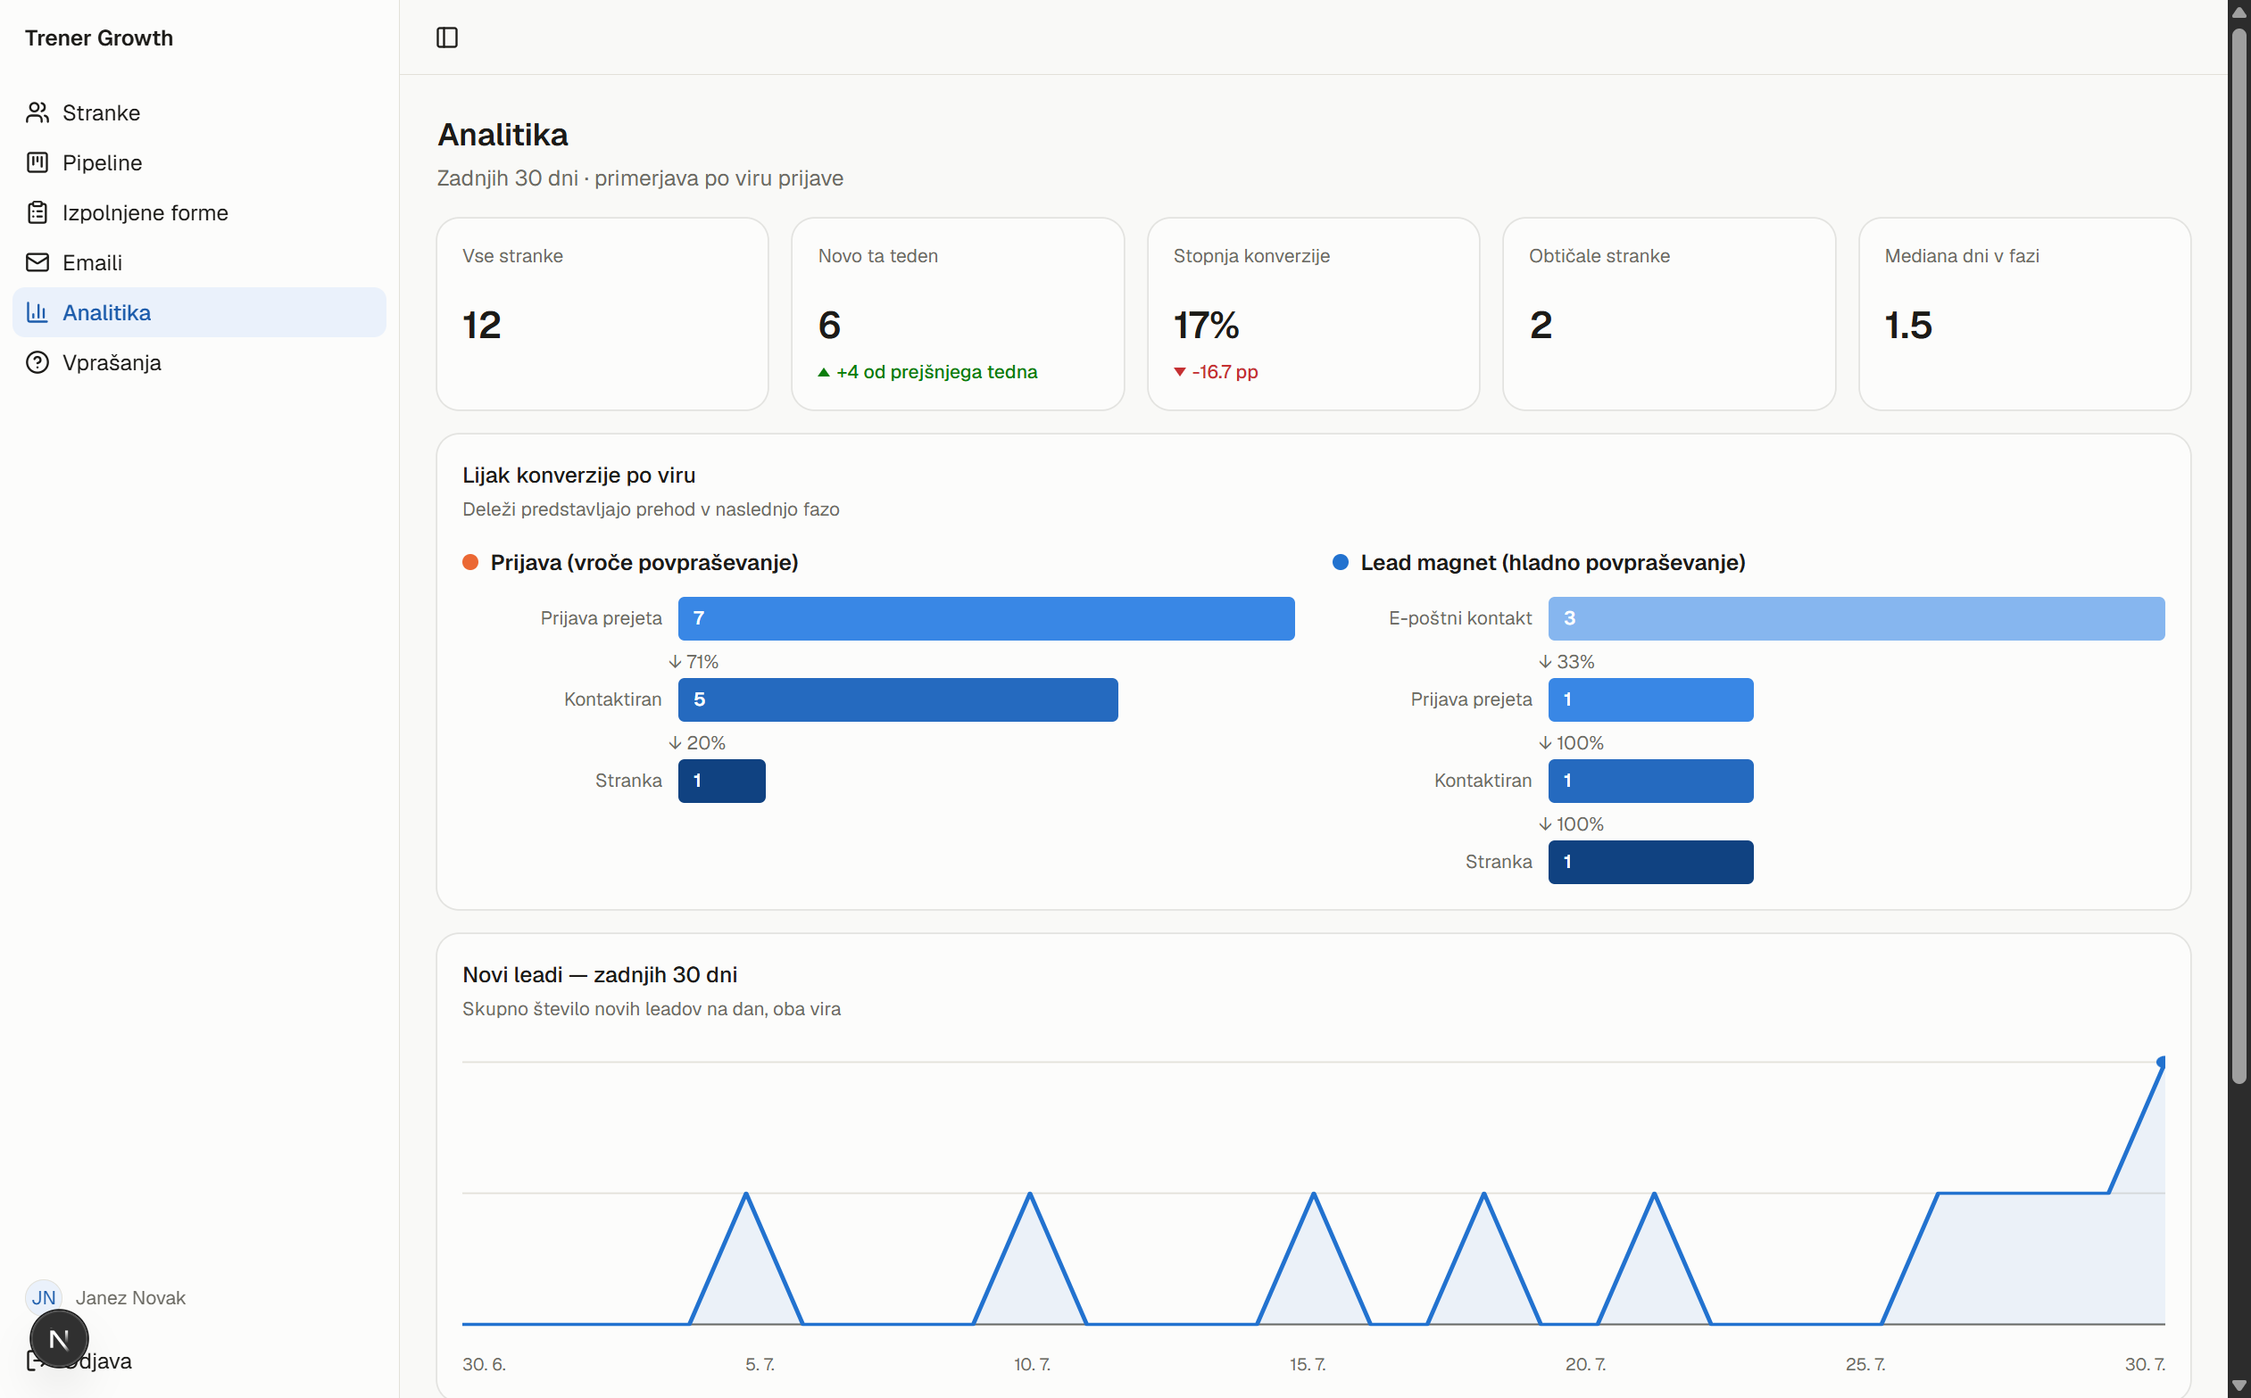
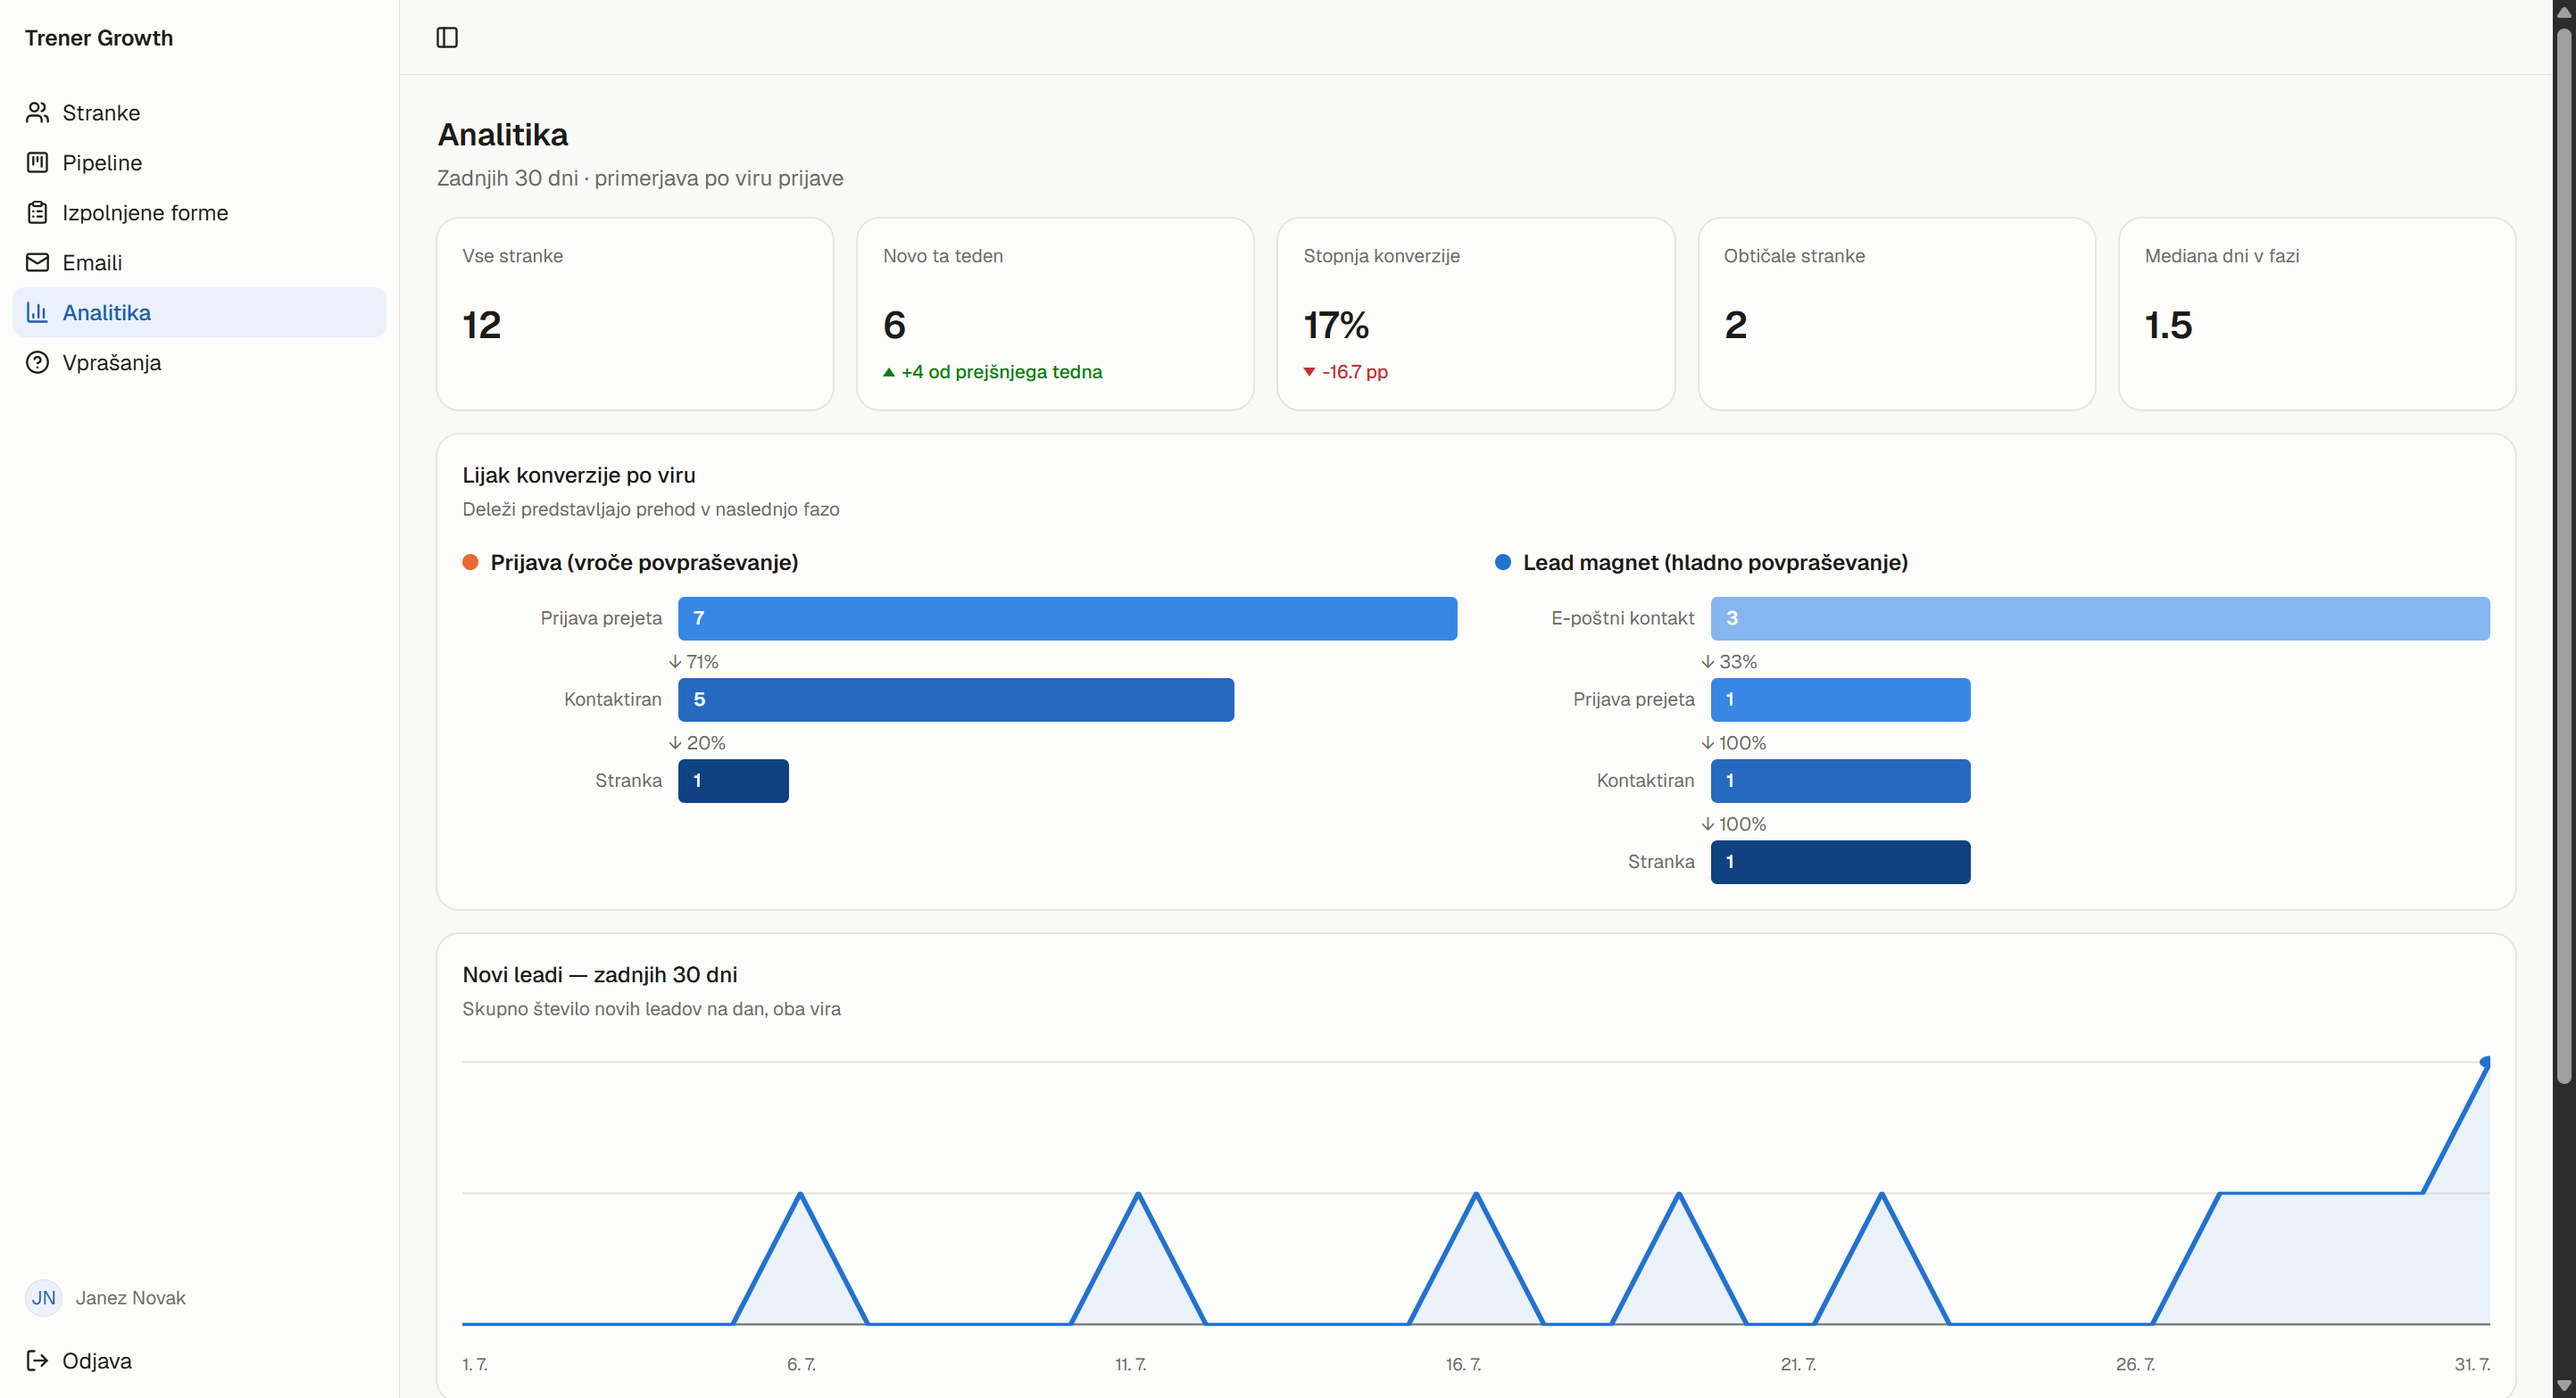
feat: add Product Tour section with real dashboard screenshots
New tabbed section (Stranke / Pipeline / Analitika) between Mechanism and
AudienceFit, crossfading between real screenshots of the seeded demo
account (npm run seed:demo) instead of mockups. Re-captured all three
marketing screenshots fresh from the current seed data for consistency,
and added the missing dashboard-leads.png (previously only pipeline and
analytics existed). Adds "Produkt" to the navbar (tracked by scroll-spy).

diff --git a/app/(public)/_components/product-tour.tsx b/app/(public)/_components/product-tour.tsx
@@ -1,0 +1,99 @@
+"use client";
+
+import { AnimatePresence, motion } from "framer-motion";
+import Image from "next/image";
+import { useState } from "react";
+import { Container } from "@/app/(public)/_components/container";
+import { Tabs, TabsList, TabsTrigger } from "@/components/ui/tabs";
+
+const EASE = [0.16, 1, 0.3, 1] as const;
+
+/** Real screenshots from the seeded demo account (npm run seed:demo), not
+ *  mockups — captured via browser automation from /leads, /pipeline,
+ *  /analytics. Re-capture the same way if the dashboard visuals change. */
+const TABS = [
+  {
+    value: "stranke",
+    label: "Stranke",
+    src: "/images/marketing/dashboard-leads.png",
+    alt: "Seznam strank v Trener Growth Sistem CRM",
+    caption: "Vse povpraševanja na enem mestu — ime, e-pošta, vir in faza na prvi pogled.",
+  },
+  {
+    value: "pipeline",
+    label: "Pipeline",
+    src: "/images/marketing/dashboard-pipeline.png",
+    alt: "Kanban pregled strank v Trener Growth Sistem CRM",
+    caption: "Kanban pregled pokaže natanko, kje je vsaka stranka v prodajnem lijaku.",
+  },
+  {
+    value: "analitika",
+    label: "Analitika",
+    src: "/images/marketing/dashboard-analytics.png",
+    alt: "Analitika pretvorb v Trener Growth Sistem CRM",
+    caption: "Spremljaj stopnjo konverzije in lijak po viru povpraševanja skozi čas.",
+  },
+] as const;
+
+export function ProductTour() {
+  const [active, setActive] = useState<string>(TABS[0].value);
+  const activeTab = TABS.find((tab) => tab.value === active) ?? TABS[0];
+
+  return (
+    <section id="produkt" className="scroll-mt-24 py-20 lg:py-28">
+      <Container>
+        <span className="text-sm font-medium tracking-wide text-hot uppercase">Produkt</span>
+        <h2 className="mt-3 max-w-2xl text-3xl font-semibold tracking-tight sm:text-4xl">
+          Poglej, kako izgleda v praksi
+        </h2>
+        <p className="mt-3 max-w-2xl text-muted-foreground">
+          Pravi posnetki zaslona iz delujočega sistema — ne skice ali mockupi.
+        </p>
+
+        <Tabs value={active} onValueChange={(value) => setActive(String(value))} className="mt-10 items-center">
+          <TabsList>
+            {TABS.map((tab) => (
+              <TabsTrigger key={tab.value} value={tab.value}>
+                {tab.label}
+              </TabsTrigger>
+            ))}
+          </TabsList>
+        </Tabs>
+
+        <div className="relative mt-6 overflow-hidden rounded-2xl ring-1 ring-foreground/10 shadow-2xl shadow-foreground/10">
+          <AnimatePresence mode="wait">
+            <motion.div
+              key={activeTab.value}
+              initial={{ opacity: 0, y: 8 }}
+              animate={{ opacity: 1, y: 0 }}
+              exit={{ opacity: 0, y: -8 }}
+              transition={{ duration: 0.4, ease: EASE }}
+            >
+              <Image
+                src={activeTab.src}
+                alt={activeTab.alt}
+                width={2886}
+                height={1567}
+                className="h-auto w-full"
+                sizes="(min-width: 1024px) 1024px, 100vw"
+              />
+            </motion.div>
+          </AnimatePresence>
+        </div>
+
+        <AnimatePresence mode="wait">
+          <motion.p
+            key={activeTab.value}
+            className="mt-4 text-center text-sm text-muted-foreground"
+            initial={{ opacity: 0 }}
+            animate={{ opacity: 1 }}
+            exit={{ opacity: 0 }}
+            transition={{ duration: 0.3, ease: EASE }}
+          >
+            {activeTab.caption}
+          </motion.p>
+        </AnimatePresence>
+      </Container>
+    </section>
+  );
+}

diff --git a/app/(public)/page.tsx b/app/(public)/page.tsx
@@ -8,6 +8,7 @@ import { Mechanism } from "@/app/(public)/_components/mechanism";
 import { MotionProvider } from "@/app/(public)/_components/motion-provider";
 import { Navbar } from "@/app/(public)/_components/navbar";
 import { Pricing } from "@/app/(public)/_components/pricing";
+import { ProductTour } from "@/app/(public)/_components/product-tour";
 import { Reveal } from "@/app/(public)/_components/reveal";
 import { ValueStack } from "@/app/(public)/_components/value-stack";
 
@@ -19,6 +20,9 @@ export default function Home() {
         <Hero />
         <Reveal>
           <Mechanism />
+        </Reveal>
+        <Reveal>
+          <ProductTour />
         </Reveal>
         <Reveal>
           <AudienceFit />

diff --git a/app/(public)/_components/navbar.tsx b/app/(public)/_components/navbar.tsx
@@ -18,6 +18,7 @@ import { cn } from "@/lib/utils";
 
 const navLinks = [
   { href: "#kako-deluje", label: "Kako deluje" },
+  { href: "#produkt", label: "Produkt" },
   { href: "#bonusi", label: "Bonusi" },
   { href: "#cenik", label: "Cenik" },
   { href: "#faq", label: "FAQ" },
